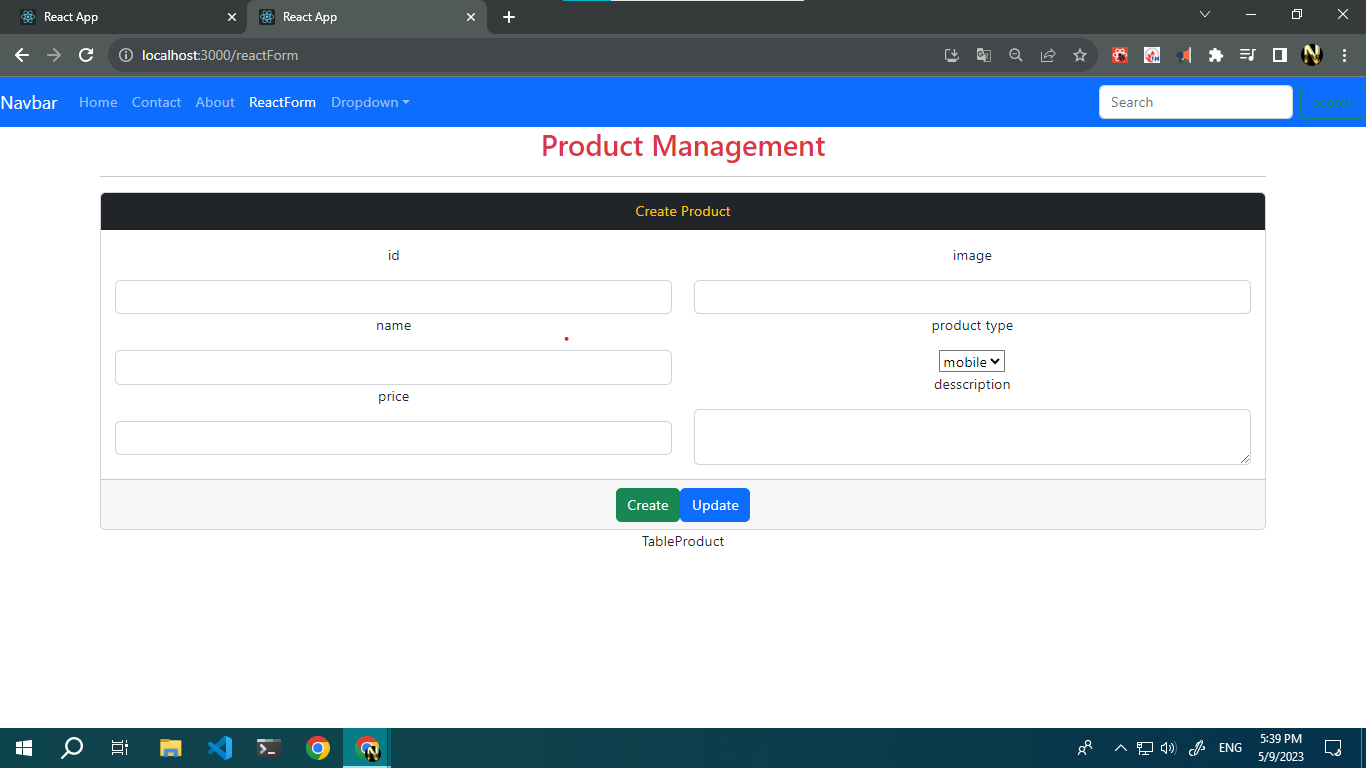
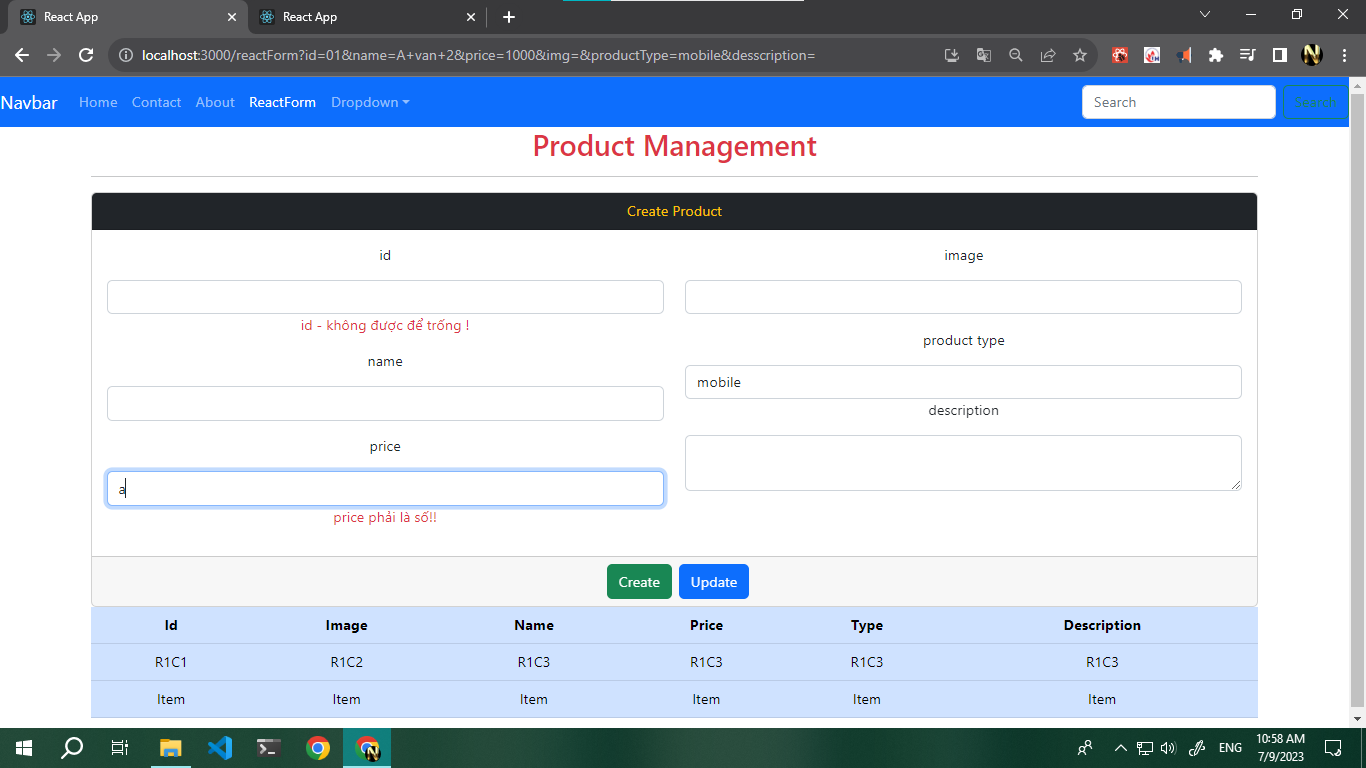
bat su kien nhap, bat lỗi nhập regex

diff --git a/demo-buoi5-router/src/Page/ReactForm/FromProduct.jsx b/demo-buoi5-router/src/Page/ReactForm/FromProduct.jsx
@@ -4,27 +4,69 @@ import React, { Component } from 'react'
 export default class FromProduct extends Component {
 
    state = {
-      id: '',
-      name: '',
-      price: '',
-      productType: 'mobile',
-      description: '',
-      img: ''
+      productInfo: {
+         id: '',
+         name: '',
+         price: '',
+         productType: 'mobile',
+         description: '',
+         img: ''
+      },
+      error: {
+         id: '',
+         name: '',
+         price: '',
+         description: '',
+         img: ''
+      }
    }
 
    // fun bat su kien nhap o input
    handleChange = (event) => {
-      let { value, id } = event.target;
-      this.setState({ [id]: value }, () => { console.log() })
+      // event.target // lay data trong input
+      let { value, id, name } = event.target;
+let dataType = event.target.getAttribute('data-type')
+
+      // debugger;
+      // this.setState({ [id]: value }, () => { console.log() })
+
+      // su ly product info
+      let newValue = this.state.productInfo;
+      newValue[id] = value
+      // su ly error
+      let newErr = this.state.error;
+      let messErr = ""
+      if (value.trim() === "") {
+         messErr = id + " - không được để trống !"
+      }else{
+         if (dataType == "number") {
+            let regexNumber = /^\d+$/;
+            if (!regexNumber.test(value)) {
+               messErr= id + ' phải là số!!'
+               
+            }
+            
+         }
+      }
+      newErr[id] = messErr;
+
+      // setState
+      this.setState(
+         {
+            productInfo: newValue,
+            error: newErr
+         }, () => {
+            console.log(this.state);
+         }
+      )
    }
 
 
    // fun -chan su kien reload cua browser
    handleSubmit = (event) => {
-      console.log("🚀 ~ file: FromProduct.jsx:24 ~ FromProduct ~ event:", event)
       event.preventDefault();
       console.log(this.state);
-      
+
    }
    render() {
       return (
@@ -37,30 +79,26 @@ export default class FromProduct extends Component {
                   <div className="col-6">
                      <div className="form-group">
                         <p>id</p>
-                        <input className='form-control' type="text" name="id" id="id" onInput={(event) => {
-
-                           // console.log(event.target)  / lay data trong input
-                           let { value } = event.target;
-                           this.setState({ id: value }, () => { console.log() })
-                        }} />
+                        <input className='form-control' type="text" name="mã" id="id" onInput={this.handleChange} />
+                        <p className="text-danger">{this.state.error.id}</p>
                      </div>
                      <div className="form-group">
                         <p>name</p>
-                        <input className='form-control' type="text" name="name" id="name" onInput={(event) => {
-                           let { value, id } = event.target;  // event.target.id === idoi o input 
-                           this.setState({ [id]: value }, () => { console.log() })
-                        }} />
+                        <input className='form-control' type="text" name="name" id="name" onInput={this.handleChange} />
+                        <p className="text-danger">{this.state.error.name}</p>
                      </div>
                      <div className="form-group">
                         <p>price</p>
-                        <input className='form-control' type="text" name="price" id="price" onInput={this.handleChange} />
+                        <input data-type="number" className='form-control' type="text" name="price" id="price" onInput={this.handleChange} />
+                        <p className="text-danger">{this.state.error.price}</p>
                      </div>
                   </div>
 
                   <div className="col-6">
                      <div className="form-group">
                         <p>image</p>
-                        <input className='form-control' name="img" id="img" onInput={this.handleChange}/>
+                        <input className='form-control' name="img" id="img" onInput={this.handleChange} />
+                        <p className="text-danger">{this.state.error.img}</p>
                      </div>
 
                      <div className="form-group">
@@ -72,14 +110,15 @@ export default class FromProduct extends Component {
                         </select>
                      </div>
                      <div className="form-group">
-                        <p>desscription</p>
-                        <textarea className='form-control' name="desscription" id="desscription" onInput={this.handleChange} />
+                        <p>description</p>
+                        <textarea className='form-control' name="description" id="description" onInput={this.handleChange} />
+                        <p className="text-danger">{this.state.error.description}</p>
                      </div>
 
                   </div>
                </div>
                <div className="card-footer text-muted">
-                  <button  class="btn btn-success mx-2">Create</button>
+                  <button class="btn btn-success mx-2">Create</button>
                   <button type="button" class="btn btn-primary">Update</button>
                </div>
             </form>
